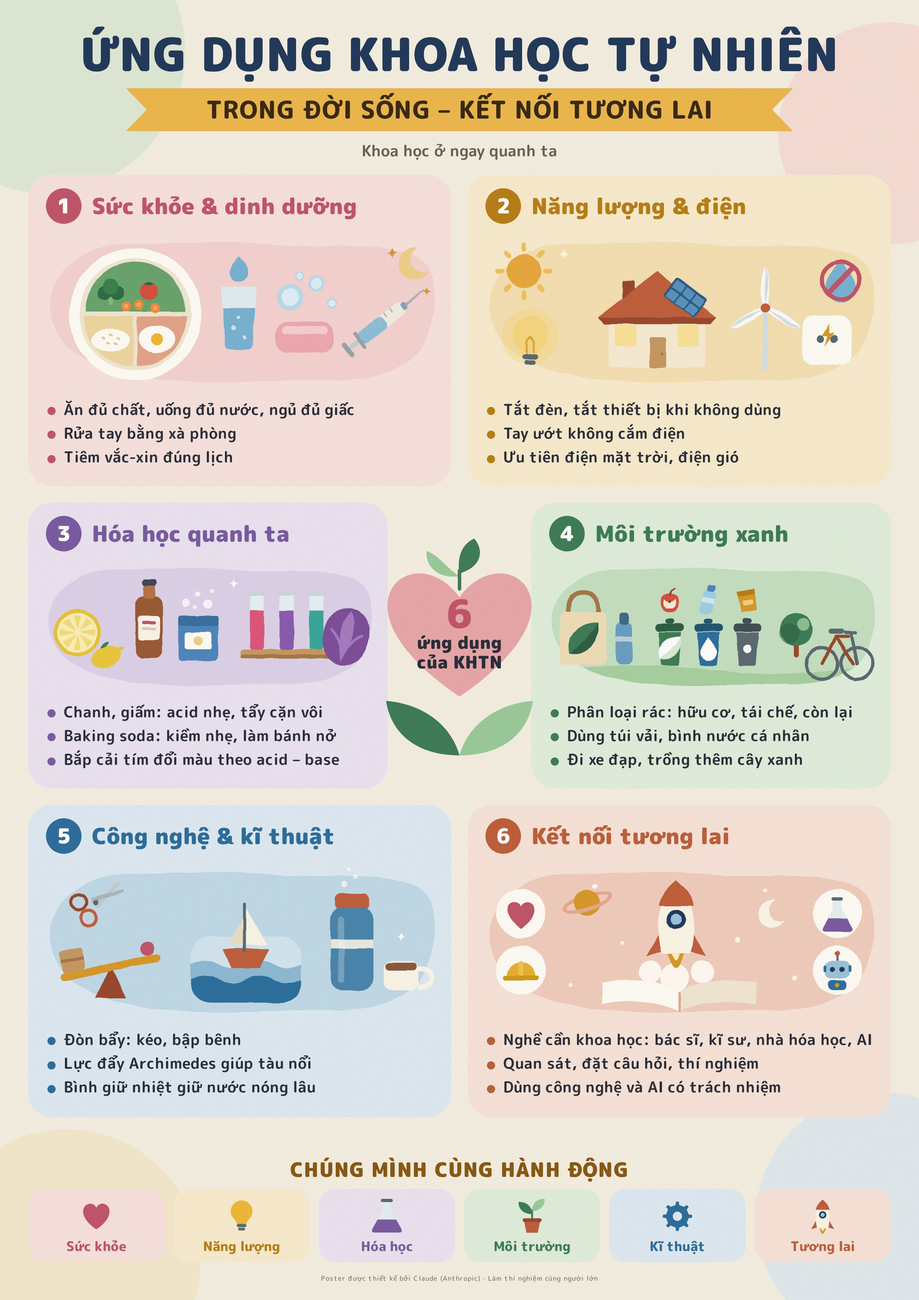
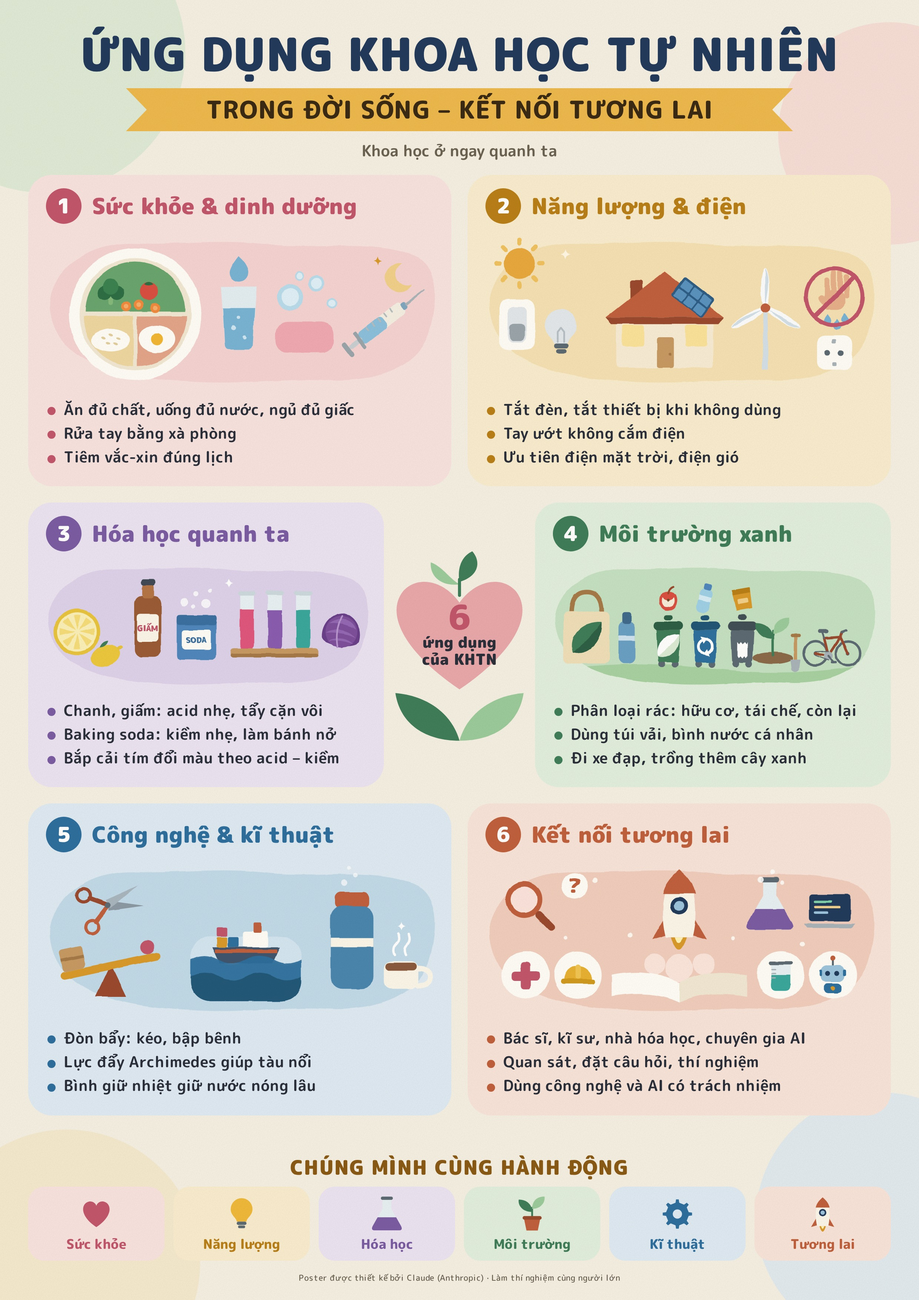
Poster tối giản: sửa theo đợt kiểm tra (bớt bóng, hình khớp ý, chừa khe cho trái tim)
- Bỏ vệt sáng trên bình giữ nhiệt và bánh xà phòng; bàn tay/kéo/tàu/xe đạp vẽ lại.
- Cảnh 2: công tắc và bóng đèn ở vị trí tắt, bàn tay ướt bị cấm cạnh ổ cắm.
- Cảnh 4: thùng rác có bánh xe, biểu tượng tái chế, cây non đang trồng, xe đạp có bàn đạp.
- Cảnh 6: kính lúp, dấu hỏi, thí nghiệm, laptop và bốn nghề; thuật ngữ acid – kiềm nhất quán.
- Xuất đúng khổ A4: 2480x3508 (300 dpi) và 3720x5262.

Claude-Session: https://claude.ai/code/session_01TrzHmDARenU8tDfD1GxZC2

diff --git a/poster-khtn8-toi-gian/art.js b/poster-khtn8-toi-gian/art.js
@@ -8,7 +8,8 @@ const M = {
   grn: '#3f7d58', grnD: '#2e6044', grnL: '#9ccb9b', grnXL: '#e2efdd',
   blu: '#2e6f9e', bluD: '#245676', bluL: '#9cc4dc', bluXL: '#dfeaf3',
   ter: '#c0603c', terD: '#9a4a2d', terL: '#e7ab90', terXL: '#f8e4da',
-  navy: '#233a5c', gray: '#5d6b73', grayL: '#a9b3b8', wood: '#c79a63', woodD: '#a67a46'
+  navy: '#233a5c', gray: '#5d6b73', grayL: '#a9b3b8', wood: '#c79a63', woodD: '#a67a46',
+  skin: '#e6b08a'
 };
 const rad = d => d * Math.PI / 180;
 const T = (x, y, s = 1, rot = 0, inner = '') => `<g transform="translate(${x} ${y}) rotate(${rot}) scale(${s})">${inner}</g>`;
@@ -16,6 +17,8 @@ const rect = (x, y, w, h, r, f, extra = '') => `<rect x="${x}" y="${y}" width="$
 const circ = (x, y, r, f, extra = '') => `<circle cx="${x}" cy="${y}" r="${r}" fill="${f}" ${extra}/>`;
 const ell = (x, y, rx, ry, f, rot = 0) => `<ellipse cx="${x}" cy="${y}" rx="${rx}" ry="${ry}" fill="${f}" transform="rotate(${rot} ${x} ${y})"/>`;
 const path = (d, f, extra = '') => `<path d="${d}" fill="${f}" ${extra}/>`;
+const bar = (d, c, w) => `<path d="${d}" fill="none" stroke="${c}" stroke-width="${w}" stroke-linecap="round" stroke-linejoin="round"/>`;
+const ring = (cx, cy, R, r, f) => `<path fill-rule="evenodd" fill="${f}" d="M${cx - R} ${cy}a${R} ${R} 0 1 0 ${2 * R} 0a${R} ${R} 0 1 0 ${-2 * R} 0ZM${cx - r} ${cy}a${r} ${r} 0 1 1 ${2 * r} 0a${r} ${r} 0 1 1 ${-2 * r} 0Z"/>`;
 
 function sector(cx, cy, r, a0, a1, fill, gap = 3) {
   const m = rad((a0 + a1) / 2), ox = cx + gap * Math.cos(m), oy = cy + gap * Math.sin(m);
@@ -30,10 +33,11 @@ const inBlob = inner => { const id = 'bl' + (++_g); return `<clipPath id="${id}"
 
 /* ---------- đồ vật dùng chung ---------- */
 const bulbG = (lit = true, glow = '#f6d77a') => `${lit ? circ(0, -6, 32, glow, 'opacity=".38"') : ''}
-  ${path('M-9 14C-9 7 -20 3 -20 -9A20 20 0 1 1 20 -9C20 3 9 7 9 14Z', lit ? '#f7d77f' : '#e6ecf2')}
+  ${path('M-9 14C-9 7 -20 3 -20 -9A20 20 0 1 1 20 -9C20 3 9 7 9 14Z', lit ? '#f7d77f' : '#e3e8eb')}
   ${rect(-9, 14, 18, 6, 3, M.gray)}${rect(-6.5, 21, 13, 5, 2.5, M.gray)}
-  ${path('M-4 12V-1L0 -6L4 -1V12', 'none', 'stroke="#d99a2b" stroke-width="2.2" stroke-linecap="round" stroke-linejoin="round" opacity=".8"')}`;
+  ${lit ? bar('M-4 12V-1L0 -6L4 -1V12', '#d99a2b', 2.2) : bar('M-4 12V-1L0 -6L4 -1V12', '#b7c0c6', 2.2)}`;
 const heartG = c => path('M0 24C-32 3 -28 -20 -13 -23C-6 -24 -1 -19 0 -15C1 -19 6 -24 13 -23C28 -20 32 3 0 24Z', c);
+const crossG = c => rect(-9, -26, 18, 52, 6, c) + rect(-26, -9, 52, 18, 6, c);
 const leafG = (a, b) => path('M-24 24C-32 -6 -6 -30 26 -28C28 6 4 32 -24 24Z', a) + path('M-24 24C-8 12 12 -6 26 -28C28 6 4 32 -24 24Z', b);
 const dropG = (c) => path('M0 -30C0 -30 -22 -4 -22 10A22 22 0 0 0 22 10C22 -4 0 -30 0 -30Z', c);
 const sparkG = c => path('M0 -11Q1.6 -1.6 11 0Q1.6 1.6 0 11Q-1.6 1.6 -11 0Q-1.6 -1.6 0 -11Z', c);
@@ -64,13 +68,71 @@ const robotG = () => `${rect(-1.8, -31, 3.6, 11, 0, M.gray)}${circ(0, -33, 4.6, 
   ${rect(-24.5, -12, 5, 12, 2.5, M.blu)}${rect(19.5, -12, 5, 12, 2.5, M.blu)}
   ${rect(-16, 14, 32, 19, 7, M.blu)}${circ(0, 23.5, 4, M.mus)}`;
 const hatG = () => `${path('M-26 8A26 26 0 0 1 26 8Z', '#e8b130')}${rect(-32, 6, 64, 9, 4.5, '#d09a1c')}${rect(-5, -20, 10, 26, 4, '#f1c552')}`;
-const treeG = () => `${rect(-3.5, 4, 7, 27, 3.5, M.terD)}${circ(0, -8, 23, M.grn)}${circ(-10, -2, 14, M.grnD, 'opacity=".55"')}${circ(10, -15, 9, M.grnL, 'opacity=".85"')}`;
+const moonG = c => path('M8 -25A26 26 0 1 0 25 13A20 20 0 0 1 8 -25Z', c);
 const saplingG = pot => `${rect(-1.8, -16, 3.6, 22, 1.8, M.grn)}
   ${path('M0 -6C-20 -6 -28 -20 -26 -30C-10 -30 0 -20 0 -6Z', M.grn)}${path('M0 -12C18 -12 26 -26 24 -36C8 -36 0 -26 0 -12Z', M.grnL)}
   ${path('M-16 6H16L11 30H-11Z', pot)}${rect(-18.5, 2, 37, 7, 3.5, M.terD)}`;
-const moonG = c => path('M8 -25A26 26 0 1 0 25 13A20 20 0 0 1 8 -25Z', c);
-const planetG = (c, ring) => `<g transform="rotate(-18)"><path fill-rule="evenodd" fill="${ring}" d="M-34 0a34 11 0 1 0 68 0a34 11 0 1 0 -68 0ZM-29 0a29 6 0 1 1 58 0a29 6 0 1 1 -58 0Z"/>${circ(0, 0, 17, c)}<path fill="${ring}" d="M-34 0A34 11 0 0 0 34 0L29 0A29 6 0 0 1 -29 0Z"/></g>`;
-const binG = (c, cD, glyph) => `${rect(-6, -33, 12, 7, 3.5, cD)}${path('M-15 -14H15L12 28Q12 31 9 31H-9Q-12 31 -12 28Z', c)}${rect(-19, -26, 38, 11, 5.5, cD)}${glyph}`;
+
+const beakerG = liq => `${path('M-18 -24H18V18Q18 28 8 28H-8Q-18 28 -18 18Z', '#e7f0f3')}${path('M-18 -2H18V18Q18 28 8 28H-8Q-18 28 -18 18Z', liq)}${rect(-22, -27, 44, 6, 3, M.gray)}${[-14, -6, 2].map(y => rect(-18, y, 9, 2.4, 1, '#a9b3b8')).join('')}`;
+/* cây non đang được trồng xuống đất, có xẻng */
+const plantG = () => `${ell(0, 24, 30, 9, '#8b6a4a')}${rect(-1.8, -18, 3.6, 40, 1.8, M.grn)}
+  ${path('M0 -4C-20 -4 -28 -18 -26 -28C-10 -28 0 -18 0 -4Z', M.grn)}${path('M0 -12C18 -12 26 -26 24 -36C8 -36 0 -26 0 -12Z', M.grnL)}
+  ${rect(31, -10, 5, 38, 2.5, M.wood)}${rect(26, -12, 15, 5, 2.5, M.woodD)}${path('M26 26H41L39 42Q33.5 48 28 42Z', M.grayL)}`;
+
+/* thùng rác có bánh xe: tách rõ với cốc nước */
+const binG = (c, cD, glyph) => `${circ(-9, 32, 4.6, M.gray)}${circ(9, 32, 4.6, M.gray)}${rect(-6, -35, 12, 7, 3.5, cD)}
+  ${path('M-16 -14H16L14 27Q14 30 11 30H-11Q-14 30 -14 27Z', c)}${rect(-20, -26, 40, 12, 6, cD)}${glyph}`;
+const recycleG = () => {
+  const r = 9.5, cy = 8, arrow = (a0, a1) => {
+    const P = a => [r * Math.cos(rad(a)), cy + r * Math.sin(rad(a))];
+    const [x0, y0] = P(a0), [x1, y1] = P(a1);
+    const tx = -Math.sin(rad(a1)), ty = Math.cos(rad(a1)), nx = Math.cos(rad(a1)), ny = Math.sin(rad(a1));
+    const tip = [x1 + tx * 7, y1 + ty * 7], b1 = [x1 + nx * 5.2 - tx, y1 + ny * 5.2 - ty], b2 = [x1 - nx * 5.2 - tx, y1 - ny * 5.2 - ty];
+    return `<path d="M${x0.toFixed(1)} ${y0.toFixed(1)}A${r} ${r} 0 0 1 ${x1.toFixed(1)} ${y1.toFixed(1)}" fill="none" stroke="#fff" stroke-width="3.6"/>` +
+      `<path d="M${tip[0].toFixed(1)} ${tip[1].toFixed(1)}L${b1[0].toFixed(1)} ${b1[1].toFixed(1)}L${b2[0].toFixed(1)} ${b2[1].toFixed(1)}Z" fill="#fff"/>`;
+  };
+  return arrow(-80, 70) + arrow(100, 250);
+};
+const chipBagG = () => path('M-7 -2L-4.5 1L-2 -2L0.5 1L3 -2L5.5 1L7 -2V17L4.5 20L2 17L-0.5 20L-3 17L-5.5 20L-7 17Z', '#fff', 'transform="translate(0 4)"');
+
+/* cái kéo: hai tay đòn bắt chéo ở chốt, tay cầm gắn liền lưỡi */
+const scissorsG = () => `
+  ${path('M58 17L2 9L6 -6Z', '#8c9aa4')}${bar('M4 0L-22 -19', M.terD, 7)}${ring(-30, -26, 13, 8, M.terD)}
+  ${path('M58 -17L2 -9L6 6Z', '#a9b6be')}${bar('M4 0L-22 19', M.ter, 7)}${ring(-30, 26, 13, 8, M.ter)}
+  ${circ(3, 0, 4.8, M.gray)}`;
+
+/* bàn tay ướt + giọt nước */
+const handG = () => `${rect(-16, -4, 32, 30, 12, M.skin)}
+  ${[0, 1, 2, 3].map(i => rect(-15 + i * 9.8, -28 - (i === 1 || i === 2 ? 7 : 0) + (i === 0 ? 5 : 0), 8, 36, 4, M.skin)).join('')}
+  ${T(-20, 8, 1, -36, rect(-4.5, -4, 9, 25, 4.5, M.skin))}
+  ${[[-10, 40], [4, 48], [16, 38]].map(([x, y]) => T(x, y, .26, 0, dropG('#79b3d4'))).join('')}`;
+const socketG = () => `${rect(-29, -29, 58, 58, 14, M.white)}${circ(-11, 0, 5, M.gray)}${circ(11, 0, 5, M.gray)}${rect(-3.5, -23, 7, 7, 2, M.grayL)}${rect(-3.5, 16, 7, 7, 2, M.grayL)}`;
+const switchG = () => `${rect(0, 0, 46, 66, 11, M.white)}${rect(11, 10, 24, 46, 7, '#e3e7ea')}${rect(13, 32, 20, 22, 6, '#9aa5ab')}`;
+
+/* bắp cải tím: cả búp tròn nhiều lớp lá */
+const cabbageG = () => `${path('M-34 14C-38 -10 -22 -32 0 -34C22 -32 38 -10 34 14C28 30 -28 30 -34 14Z', '#6b3f8a')}
+  ${circ(0, 0, 29, '#7e4f9c')}
+  ${path('M-24 -12C-8 -28 16 -28 26 -8C10 -16 -10 -16 -24 -12Z', '#9468b4')}
+  ${path('M-28 6C-14 -6 12 -6 28 8C14 2 -12 2 -28 6Z', '#9468b4')}
+  ${path('M-22 20C-8 10 12 10 24 20C10 16 -10 16 -22 20Z', '#9468b4')}
+  ${bar('M-3 -29C-9 -10 -9 10 -3 29', '#b896cf', 3)}`;
+
+const laptopG = () => `${rect(-34, -24, 68, 44, 5, M.navy)}${rect(-26, -14, 30, 4, 2, '#7fd1a8')}${rect(-26, -5, 44, 4, 2, M.musL)}${rect(-26, 4, 24, 4, 2, M.bluL)}
+  ${path('M-42 24H42L36 31H-36Z', M.grayL)}`;
+const magnifierG = () => `${circ(0, 0, 18, '#fbe4dc')}${ring(0, 0, 25, 18, M.ter)}<g transform="rotate(45)">${rect(24, -5, 34, 10, 5, M.terD)}</g>`;
+const planetG = (c, rg) => `<g transform="rotate(-18)"><path fill-rule="evenodd" fill="${rg}" d="M-34 0a34 11 0 1 0 68 0a34 11 0 1 0 -68 0ZM-29 0a29 6 0 1 1 58 0a29 6 0 1 1 -58 0Z"/>${circ(0, 0, 17, c)}<path fill="${rg}" d="M-34 0A34 11 0 0 0 34 0L29 0A29 6 0 0 1 -29 0Z"/></g>`;
+
+/* tàu hàng thép nổi trên mặt nước */
+const shipG = () => `${path('M-46 0H46L36 22H-36Z', '#3f566e')}${rect(-42, 3, 84, 5, 0, M.ter)}
+  ${rect(-4, -22, 34, 22, 3, M.white)}${rect(10, -34, 11, 14, 2, M.ter)}
+  ${rect(-40, -14, 15, 14, 2, M.mus)}${rect(-24, -14, 15, 14, 2, M.blu)}${rect(-40, -28, 15, 13, 2, M.rose)}`;
+
+/* xe đạp có bàn đạp, líp và xích */
+const bikeG = () => `${ring(-30, 0, 24, 19.5, M.gray)}${ring(30, 0, 24, 19.5, M.gray)}${circ(-30, 0, 3.4, M.gray)}${circ(30, 0, 3.4, M.gray)}
+  ${bar('M-30 0L-6 4L-14 -28L16 -30L-6 4M16 -30L30 0M16 -30L19 -39', M.terD, 4.6)}
+  ${bar('M-14 -28L-17 -37', M.gray, 3.4)}${rect(-26, -44, 20, 7, 3.5, M.gray)}${bar('M19 -39L27 -42', M.gray, 4)}
+  ${circ(-6, 4, 8.5, M.grayL)}${bar('M-6 4L3 15', M.gray, 3.6)}${rect(-1, 14, 11, 4.4, 2.2, M.gray)}
+  ${bar('M-30 -3L-6 -4M-30 3L-6 12', M.gray, 1.8)}`;
 
 /* ---------- 1 · Sức khỏe & dinh dưỡng ---------- */
 function scene1() {
@@ -89,7 +151,7 @@ function scene1() {
   ${circ(252, 124, 3.2, '#cfe6f2')}${circ(266, 136, 2.4, '#cfe6f2')}${circ(259, 111, 2, '#cfe6f2')}
   ${T(259, 46, .55, 0, dropG('#79b3d4'))}
   <!-- xà phòng + bọt -->
-  ${rect(306, 116, 76, 40, 16, '#f0a9b2')}${rect(314, 122, 60, 10, 5, '#f8cfd3')}
+  ${rect(306, 116, 76, 40, 16, '#f0a9b2')}
   ${[[326, 84, 17], [360, 66, 10], [380, 92, 7], [338, 56, 6]].map(([x, y, r]) => circ(x, y, r, '#b9dcec') + circ(x, y, r * .68, '#dff0f7')).join('')}
   <!-- mũi tiêm vắc-xin -->
   ${T(452, 112, 1, -38, `${rect(-44, -9, 70, 18, 5, '#f4efe3')}${rect(-44, -9, 40, 18, 5, '#8cc0dc')}
@@ -97,29 +159,29 @@ function scene1() {
     ${rect(-62, -3, 20, 6, 3, '#c9cfd2')}${rect(-68, -11, 6, 22, 3, '#9aa5ab')}${rect(-48, -13, 5, 26, 2, '#9aa5ab')}
     ${rect(24, -5, 7, 10, 2, '#7fa7c0')}${path('M30 -2L62 -0.8L62 0.8L30 2Z', '#aab4b9')}`)}
   <!-- mặt trăng: ngủ đủ giấc -->
-  ${T(486, 40, .8, 0, moonG(M.musL))}${T(458, 26, .6, 0, sparkG(M.mus))}${T(504, 76, .5, 0, sparkG(M.mus))}`;
+  ${T(466, 58, .72, 0, moonG(M.musL))}${T(440, 36, .5, 0, sparkG(M.mus))}`;
 }
 
 /* ---------- 2 · Năng lượng & điện ---------- */
 function scene2() {
-  const rays = [0, 45, 90, 135, 180, 225, 270, 315].map(a => `<rect x="-3" y="-37" width="6" height="12" rx="3" fill="#f0c25e" transform="rotate(${a})"/>`).join('');
+  const rays = [0, 45, 90, 135, 180, 225, 270, 315].map(a => `<rect x="-3" y="-35" width="6" height="11" rx="3" fill="#f0c25e" transform="rotate(${a})"/>`).join('');
   const blades = [0, 120, 240].map(a => `<g transform="rotate(${a})">${ell(0, -26, 5.5, 26, '#fbfcfd')}${path('M0 -52C5 -44 6 -30 0 -4Z', '#d3e0e8')}</g>`).join('');
   return `${blob(M.musL, .4)}
-  ${T(58, 50, 1, 0, rays + circ(0, 0, 22, '#e8a93c'))}
-  ${T(66, 142, 1.15, 0, bulbG(true))}
+  ${T(52, 40, .95, 0, rays + circ(0, 0, 21, '#e8a93c'))}
+  <!-- công tắc đang ở vị trí TẮT + bóng đèn tắt -->
+  ${T(26, 86, 1, 0, switchG())}${T(106, 130, 1.05, 0, bulbG(false))}
   <!-- ngôi nhà có tấm pin mặt trời -->
-  ${rect(186, 62, 16, 30, 2, M.terD)}
-  ${rect(168, 104, 126, 72, 4, '#f7ecd4')}
-  ${path('M154 110L231 50L308 110Z', M.ter)}${path('M154 110H308L300 119H162Z', M.terD)}
-  ${T(268, 84, 1, 37.6, `${rect(-25, -15, 50, 30, 3, '#2f5d85')}${[0, 1, 2].flatMap(i => [0, 1].map(j => rect(-22 + i * 15.5, -12 + j * 14, 13.5, 11.5, 1.5, '#5a93bf'))).join('')}`)}
-  ${rect(176, 120, 28, 28, 3, '#fbe39a')}${rect(258, 120, 28, 28, 3, '#fbe39a')}${rect(221, 136, 22, 40, 3, M.wood)}${circ(238, 158, 1.8, M.woodD)}
+  ${rect(196, 62, 16, 30, 2, M.terD)}
+  ${rect(178, 104, 126, 72, 4, '#f7ecd4')}
+  ${path('M164 110L241 50L318 110Z', M.ter)}${path('M164 110H318L310 119H172Z', M.terD)}
+  ${T(278, 84, 1, 37.6, `${rect(-25, -15, 50, 30, 3, '#2f5d85')}${[0, 1, 2].flatMap(i => [0, 1].map(j => rect(-22 + i * 15.5, -12 + j * 14, 13.5, 11.5, 1.5, '#5a93bf'))).join('')}`)}
+  ${rect(186, 120, 28, 28, 3, '#fbe39a')}${rect(268, 120, 28, 28, 3, '#fbe39a')}${rect(231, 136, 22, 40, 3, M.wood)}${circ(248, 158, 1.8, M.woodD)}
   <!-- tua-bin gió -->
   ${path('M368 178L376 178L374.4 104L369.6 104Z', '#d3e0e8')}${T(372, 98, 1, 0, blades + circ(0, 0, 6, M.ter))}
-  <!-- ổ cắm + giọt nước cấm -->
-  ${rect(420, 108, 64, 64, 14, M.white)}${circ(444, 138, 5, M.gray)}${circ(462, 138, 5, M.gray)}
-  ${path('M456 118L446 134H453L450 148L462 130H455Z', M.mus)}
-  ${T(470, 62, .9, 0, `${dropG('#79b3d4')}<path fill-rule="evenodd" fill="${M.rose}" d="M-30 0a30 30 0 1 0 60 0a30 30 0 1 0 -60 0ZM-24 0a24 24 0 1 1 48 0a24 24 0 1 1 -48 0Z"/>${rect(-26, -3.5, 52, 7, 3, M.rose, 'transform="rotate(-45)"')}`)}
-  ${T(110, 28, .6, 0, sparkG('#fff8e6'))}`;
+  <!-- tay ướt + ổ cắm: cấm -->
+  ${T(462, 78, .86, 0, `${handG()}<path fill-rule="evenodd" fill="${M.rose}" d="M-46 6a46 46 0 1 0 92 0a46 46 0 1 0 -92 0ZM-40 6a40 40 0 1 1 80 0a40 40 0 1 1 -80 0Z"/>${rect(-42, 2.5, 84, 7, 3, M.rose, 'transform="rotate(-45 0 6)"')}`)}
+  ${T(462, 156, .78, 0, socketG())}
+  ${T(112, 28, .6, 0, sparkG('#fff8e6'))}`;
 }
 
 /* ---------- 3 · Hóa học quanh ta ---------- */
@@ -130,77 +192,81 @@ function scene3() {
   <!-- chanh -->
   ${T(58, 112, 1.1, 0, circ(0, 0, 33, '#e8c43c') + circ(0, 0, 28, '#fbf0b8') + lemonSeg + circ(0, 0, 3.4, '#fbf0b8'))}
   ${T(102, 150, .9, -20, ell(0, 0, 26, 18, '#ecc83e') + path('M24 -6Q32 -10 34 -4Q30 0 24 -2Z', '#e8c43c') + path('M-4 -17Q4 -26 14 -23Q8 -14 -4 -17Z', M.grn))}
-  <!-- chai giấm -->
-  ${rect(148, 56, 42, 96, 12, '#9a5b34')}${rect(160, 38, 18, 22, 4, '#b57445')}${rect(158, 30, 22, 10, 4, '#3f4a55')}${rect(152, 86, 34, 38, 5, M.cream)}${rect(158, 94, 22, 5, 2.5, M.rose)}${rect(158, 104, 22, 4, 2, '#d8cdb4')}
+  <!-- chai giấm có nhãn -->
+  ${rect(148, 56, 42, 96, 12, '#9a5b34')}${rect(160, 38, 18, 22, 4, '#b57445')}${rect(158, 30, 22, 10, 4, '#3f4a55')}${rect(152, 84, 34, 44, 5, M.cream)}
+  <text x="169" y="111" text-anchor="middle" font-size="12.5" font-weight="900" fill="${M.rose}">GIẤM</text>
   <!-- hộp baking soda + bọt khí CO2 -->
-  ${rect(214, 86, 62, 70, 6, '#4f87bd')}${rect(214, 86, 62, 16, 4, '#3b6fa0')}${rect(224, 112, 42, 26, 4, M.white)}${circ(245, 125, 7, '#f1d08a')}
+  ${rect(214, 86, 62, 70, 6, '#4f87bd')}${rect(214, 86, 62, 16, 4, '#3b6fa0')}${rect(222, 110, 46, 30, 4, M.white)}
+  <text x="245" y="130" text-anchor="middle" font-size="12" font-weight="900" fill="#3b6fa0">SODA</text>
   ${[[226, 66, 6], [244, 52, 4], [260, 68, 7], [240, 72, 3], [266, 48, 3]].map(([x, y, r]) => circ(x, y, r, '#fff', 'opacity=".8"')).join('')}
   <!-- giá ống nghiệm: bắp cải tím đổi màu -->
-  ${tube(336, '#e0577d', 78)}${tube(382, '#8a5cb0', 78)}${tube(428, '#3aa79c', 78)}
-  ${rect(310, 138, 144, 14, 5, M.wood)}${rect(310, 146, 144, 6, 3, M.woodD)}
-  <!-- lá bắp cải tím -->
-  ${T(474, 118, 1, 12, path('M0 -44C28 -44 40 -16 34 14C30 36 10 46 0 46C-10 46 -30 36 -34 14C-40 -16 -28 -44 0 -44Z', '#7e4f9c') + path('M0 -40C-12 -26 -14 -2 0 40C14 -2 12 -26 0 -40Z', '#a77cc2') + path('M-24 -6C-14 0 -8 10 -3 22M24 -6C14 0 8 10 3 22', 'none', 'stroke="#a77cc2" stroke-width="4" stroke-linecap="round"'))}
-  ${T(300, 36, .6, 0, sparkG('#fff'))}`;
+  ${tube(324, '#e0577d', 78)}${tube(368, '#8a5cb0', 78)}${tube(412, '#3aa79c', 78)}
+  ${rect(298, 138, 138, 14, 5, M.wood)}${rect(298, 146, 138, 6, 3, M.woodD)}
+  <!-- búp bắp cải tím -->
+  ${T(472, 112, .86, 8, cabbageG())}
+  ${T(296, 36, .6, 0, sparkG('#fff'))}`;
 }
 
 /* ---------- 4 · Môi trường xanh ---------- */
 function scene4() {
-  const wheel = x => `<path fill-rule="evenodd" fill="${M.gray}" d="M${x - 27} 160a27 27 0 1 0 54 0a27 27 0 1 0 -54 0ZM${x - 22} 160a22 22 0 1 1 44 0a22 22 0 1 1 -44 0Z"/>`;
   return `${blob(M.grnL, .4)}
   ${inBlob(path('M0 174Q130 154 260 170T520 160V210H0Z', '#a8d1a1'))}
   <!-- túi vải + bình nước -->
-  ${path('M38 84Q38 50 62 50Q86 50 86 84', 'none', `stroke="${M.woodD}" stroke-width="7" stroke-linecap="round"`)}
+  ${bar('M38 84Q38 50 62 50Q86 50 86 84', M.woodD, 7)}
   ${rect(26, 80, 72, 82, 8, '#efdfb8')}${T(62, 122, .9, 0, leafG(M.grn, M.grnD))}
-  ${rect(112, 96, 26, 66, 10, '#6aa0c4')}${rect(118, 82, 14, 18, 4, '#3f6a8c')}${rect(112, 118, 26, 8, 0, M.white, 'opacity=".55"')}
-  <!-- 3 thùng rác + rác tương ứng -->
-  ${T(196, 128, 1.15, 0, binG(M.grn, M.grnD, T(0, 8, .58, 0, leafG('#fff', '#dcebd5'))))}
-  ${T(256, 128, 1.15, 0, binG(M.blu, M.bluD, T(0, 8, .5, 0, dropG('#fff'))))}
-  ${T(316, 128, 1.15, 0, binG(M.gray, '#434f56', circ(0, 8, 5.5, '#fff')))}
-  ${T(196, 62, 1, 0, path('M-12 -6C-18 6 -10 20 0 18C10 20 18 6 12 -6C6 -12 -6 -12 -12 -6Z', '#d9503f') + path('M-9 -2C-12 6 -8 14 0 12C8 14 12 6 9 -2C4 4 -4 4 -9 -2Z', '#f6ecd8') + circ(0, 2, 2, '#6b4a2a') + path('M0 -8Q2 -16 8 -18', 'none', `stroke="${M.terD}" stroke-width="3" stroke-linecap="round"`))}
-  ${T(256, 60, 1, 14, rect(-10, -14, 20, 38, 8, '#9fd0e6') + rect(-6, -22, 12, 10, 3, '#4f87bd') + rect(-10, -2, 20, 8, 0, '#fff', 'opacity=".55"'))}
-  ${T(316, 62, 1, -10, path('M-14 -16L14 -16L12 18L-12 18Z', M.mus) + path('M-14 -16L14 -16L13 -8L-13 -8Z', M.musD) + rect(-8, 0, 16, 8, 2, M.musL))}
-  <!-- cây + xe đạp -->
-  ${T(392, 116, 1.1, 0, treeG())}
-  ${wheel(432)}${wheel(486)}
-  ${path('M432 160L454 118L480 160M454 118H472', 'none', `stroke="${M.terD}" stroke-width="5" stroke-linecap="round" stroke-linejoin="round"`)}
-  ${path('M486 160L476 112M468 112H484', 'none', `stroke="${M.gray}" stroke-width="5" stroke-linecap="round"`)}${rect(442, 106, 24, 8, 4, M.gray)}`;
+  ${rect(112, 96, 26, 66, 10, '#6aa0c4')}${rect(118, 82, 14, 18, 4, '#3f6a8c')}${rect(112, 118, 26, 8, 0, '#cfe3ef')}
+  <!-- 3 thùng rác có bánh xe + rác tương ứng -->
+  ${T(190, 126, 1.15, 0, binG(M.grn, M.grnD, T(0, 8, .58, 0, leafG('#fff', '#dcebd5'))))}
+  ${T(248, 126, 1.15, 0, binG(M.blu, M.bluD, recycleG()))}
+  ${T(306, 126, 1.15, 0, binG(M.gray, '#434f56', chipBagG()))}
+  ${T(190, 60, 1, 0, path('M-12 -6C-18 6 -10 20 0 18C10 20 18 6 12 -6C6 -12 -6 -12 -12 -6Z', '#d9503f') + path('M-9 -2C-12 6 -8 14 0 12C8 14 12 6 9 -2C4 4 -4 4 -9 -2Z', '#f6ecd8') + circ(0, 2, 2, '#6b4a2a') + bar('M0 -8Q2 -16 8 -18', M.terD, 3))}
+  ${T(248, 58, 1, 14, rect(-10, -14, 20, 38, 8, '#9fd0e6') + rect(-6, -22, 12, 10, 3, '#4f87bd') + rect(-10, -2, 20, 8, 0, '#d7ecf5'))}
+  ${T(306, 60, 1, -10, path('M-14 -16L14 -16L12 18L-12 18Z', M.mus) + path('M-14 -16L14 -16L13 -8L-13 -8Z', M.musD) + rect(-8, 0, 16, 8, 2, M.musL))}
+  <!-- trồng thêm cây + xe đạp -->
+  ${T(354, 128, 1.05, 0, plantG())}
+  ${T(446, 146, .85, 0, bikeG())}`;
 }
 
 /* ---------- 5 · Công nghệ & kĩ thuật ---------- */
 function scene5() {
-  const waves = (y, c) => path(`M196 ${y}Q214 ${y - 10} 232 ${y}T268 ${y}T304 ${y}T340 ${y}V200H196Z`, c);
+  const waves = (y, c, o = 1) => path(`M196 ${y}Q214 ${y - 10} 232 ${y}T268 ${y}T304 ${y}T340 ${y}V200H196Z`, c, `opacity="${o}"`);
   const pondId = 'pd' + (++_g);
   return `${blob(M.bluL, .42)}
   <!-- cái kéo (đòn bẩy) -->
-  ${T(72, 52, 1, -32, `${path('M-4 2L40 -8L40 -4L-2 8Z', '#c4ccd1')}${path('M-4 -2L40 8L40 4L-2 -8Z', '#aeb8be')}<path fill-rule="evenodd" fill="${M.ter}" d="M-30 12a12 12 0 1 0 24 0a12 12 0 1 0 -24 0ZM-26 12a8 8 0 1 1 16 0a8 8 0 1 1 -16 0Z"/><path fill-rule="evenodd" fill="${M.terD}" d="M-30 -12a12 12 0 1 0 24 0a12 12 0 1 0 -24 0ZM-26 -12a8 8 0 1 1 16 0a8 8 0 1 1 -16 0Z"/>${circ(0, 0, 3.4, M.gray)}`)}
+  ${T(86, 58, .82, -16, scissorsG())}
   <!-- bập bênh -->
   ${path('M72 176H112L92 134Z', M.terD)}
   ${T(92, 136, 1, -12, rect(-66, -5, 132, 10, 5, M.mus) + rect(-62, -34, 30, 29, 4, M.wood) + rect(-62, -22, 30, 4, 0, M.woodD) + circ(52, -14, 9, M.rose))}
-  <!-- ao nước có thuyền nổi (lực đẩy Archimedes) -->
-  <clipPath id="${pondId}"><rect x="196" y="96" width="144" height="86" rx="26"/></clipPath>
-  <g clip-path="url(#${pondId})">${rect(196, 96, 144, 86, 0, '#d4e6f1')}${waves(132, '#8fbbd6')}${waves(152, M.blu)}</g>
-  ${T(268, 112, 1.25, 0, path('M-24 0H24L15 20H-15Z', M.ter) + path('M-2 -4V-46L22 -4Z', M.cream) + path('M-2 -4V-34L-18 -4Z', '#e9dfc8') + rect(-3, -48, 3, 52, 1, M.gray))}
-  ${waves(144, 'none')}
-  <!-- bình giữ nhiệt + cốc -->
-  ${rect(384, 40, 44, 22, 8, M.ter)}${rect(378, 58, 56, 108, 16, '#4b86ae')}${rect(378, 100, 56, 12, 0, M.cream, 'opacity=".9"')}${rect(388, 70, 8, 86, 4, '#fff', 'opacity=".25"')}
+  <!-- tàu thép nổi trên mặt nước (lực đẩy Archimedes) -->
+  <clipPath id="${pondId}"><rect x="196" y="98" width="144" height="84" rx="26"/></clipPath>
+  <g clip-path="url(#${pondId})">${rect(196, 98, 144, 84, 0, '#d4e6f1')}${waves(130, '#8fbbd6')}</g>
+  ${T(268, 112, .95, 0, shipG())}
+  <g clip-path="url(#${pondId})">${waves(128, M.blu, .93)}${waves(150, M.bluD, .95)}</g>
+  <!-- bình giữ nhiệt + cốc nóng -->
+  ${rect(384, 40, 44, 22, 8, M.ter)}${rect(378, 58, 56, 108, 16, '#4b86ae')}${rect(378, 100, 56, 12, 0, M.cream)}
   ${circ(396, 28, 4, '#fff', 'opacity=".7"')}${circ(410, 18, 3, '#fff', 'opacity=".7"')}${circ(402, 8, 2.4, '#fff', 'opacity=".7"')}
-  ${rect(448, 128, 44, 38, 10, M.cream)}${path('M492 138Q510 138 510 150Q510 162 492 162', 'none', `stroke="${M.cream}" stroke-width="7"`)}${rect(450, 130, 40, 10, 5, '#8a5a3c')}
-  ${T(470, 96, .5, 0, sparkG('#fff'))}`;
+  ${rect(448, 130, 44, 36, 10, M.cream)}${bar('M492 140Q508 140 508 151Q508 162 492 162', M.cream, 7)}${rect(450, 132, 40, 10, 5, '#8a5a3c')}
+  ${bar('M462 122Q458 114 464 108Q470 102 466 94M476 122Q472 114 478 108Q484 102 480 94', '#ffffff', 3)}
+  ${T(470, 84, .5, 0, sparkG('#fff'))}`;
 }
 
 /* ---------- 6 · Kết nối tương lai ---------- */
 function scene6() {
-  const badge = (x, y, ic) => circ(x, y, 32, M.white) + T(x, y + 2, .72, 0, ic);
+  const badge = (x, y, ic) => circ(x, y, 31, M.white) + T(x, y + 1, .7, 0, ic);
   return `${blob(M.terL, .4)}
-  ${[[150, 30], [372, 36], [336, 100], [186, 104], [410, 150], [118, 160]].map(([x, y], i) => circ(x, y, i % 2 ? 2.6 : 3.4, M.white, 'opacity=".9"')).join('')}
-  ${T(140, 52, 1, 0, planetG(M.mus, M.terL))}${T(380, 66, .7, 0, moonG(M.cream))}
-  <!-- cuốn sách mở, tên lửa bay ra -->
-  ${circ(222, 142, 15, M.white, 'opacity=".95"')}${circ(254, 150, 19, M.white, 'opacity=".95"')}${circ(290, 142, 15, M.white, 'opacity=".95"')}
-  ${T(256, 78, 1.55, 0, rocketG())}
-  ${path('M260 168C232 152 196 150 160 156L160 184C198 178 234 180 260 194Z', '#fffdf7')}${path('M260 168C288 152 324 150 360 156L360 184C322 178 286 180 260 194Z', '#f1e8d3')}
-  ${path('M260 168V194', 'none', `stroke="${M.terL}" stroke-width="3"`)}
-  <!-- bốn nghề -->
-  ${badge(54, 66, heartG(M.rose))}${badge(54, 140, hatG())}${badge(466, 66, flaskG(M.plum))}${badge(466, 140, robotG())}`;
+  ${[[150, 24], [372, 30], [196, 96], [330, 100], [420, 108], [112, 100]].map(([x, y], i) => circ(x, y, i % 2 ? 2.4 : 3.2, M.white, 'opacity=".9"')).join('')}
+  <!-- quan sát + đặt câu hỏi -->
+  ${T(58, 50, .95, 0, magnifierG())}
+  ${circ(124, 32, 17, M.white)}<text x="124" y="41" text-anchor="middle" font-size="26" font-weight="900" fill="${M.ter}">?</text>
+  <!-- thí nghiệm + công nghệ -->
+  ${T(378, 56, 1.1, 0, flaskG(M.plum))}${[[366, 24, 4], [382, 14, 3], [394, 28, 2.6]].map(([x, y, r]) => circ(x, y, r, '#fff', 'opacity=".85"')).join('')}
+  ${T(456, 62, .8, 0, laptopG())}
+  <!-- tên lửa bay ra từ trang sách -->
+  ${T(260, 62, 1.42, 0, rocketG())}
+  ${circ(228, 134, 14, '#fbe6dc')}${circ(260, 139, 18, '#fbe6dc')}${circ(292, 134, 14, '#fbe6dc')}
+  ${path('M260 158C234 144 202 142 172 148L172 176C204 170 236 172 260 184Z', '#fffdf7')}${path('M260 158C286 144 318 142 348 148L348 176C316 170 284 172 260 184Z', '#f1e8d3')}
+  <!-- bốn nghề: bác sĩ, kĩ sư, nhà hóa học, chuyên gia AI -->
+  ${badge(60, 148, crossG(M.rose))}${badge(128, 148, hatG())}${badge(392, 148, beakerG('#3aa79c'))}${badge(460, 148, robotG())}`;
 }
 
 /* ---------- trái tim giữa trang ---------- */

diff --git a/poster-khtn8-toi-gian/poster.html b/poster-khtn8-toi-gian/poster.html
@@ -28,9 +28,9 @@ h1{font:900 62px/1.05 'M PLUS Rounded 1c',sans-serif;color:var(--navy);letter-sp
 /* ---------- thẻ nội dung ---------- */
 .row{display:grid;gap:22px;margin-top:22px}
 .row.two{grid-template-columns:1fr 1fr}
-.row.mid{grid-template-columns:1fr 150px 1fr}
+.row.mid{grid-template-columns:1fr 160px 1fr}
 .heartwrap{position:relative;z-index:5;display:flex;align-items:center;justify-content:center}
-.heartwrap svg{position:absolute;width:236px;left:50%;top:50%;transform:translate(-50%,-50%)}
+.heartwrap svg{position:absolute;width:206px;left:50%;top:50%;transform:translate(-50%,-50%)}
 .card{background:var(--bg);border-radius:32px;padding:18px 24px 20px;display:flex;flex-direction:column}
 .hd{display:flex;align-items:center;gap:14px}
 .num{flex:none;width:48px;height:48px;border-radius:50%;background:var(--c);color:#fff;font:900 28px/48px 'M PLUS Rounded 1c',sans-serif;text-align:center}
@@ -48,7 +48,7 @@ li::before{content:"";position:absolute;left:2px;top:.46em;width:11px;height:11p
 .pl{background:var(--bg);border-radius:22px;padding:12px 4px 12px;text-align:center}
 .pl svg{display:block;width:50px;height:50px;margin:0 auto 6px}
 .pl b{display:block;font:800 18px/1.1 'M PLUS Rounded 1c',sans-serif;color:var(--c)}
-.credit{text-align:center;margin:16px 0 22px;font:500 9px/1.4 'M PLUS Rounded 1c',sans-serif;color:#8a8372;letter-spacing:.06em}
+.credit{text-align:center;margin:16px 0 22px;font:500 11px/1.4 'M PLUS Rounded 1c',sans-serif;color:#6b6252;letter-spacing:.04em}
 </style>
 </head>
 <body>
@@ -93,13 +93,13 @@ const cards = [
   { n: 2, c: M.musD, bg: M.musXL, title: 'Năng lượng & điện', scene: scene2,
     items: ['Tắt đèn, tắt thiết bị khi không dùng', 'Tay ướt không cắm điện', 'Ưu tiên điện mặt trời, điện gió'] },
   { n: 3, c: M.plum, bg: M.plumXL, title: 'Hóa học quanh ta', scene: scene3, mid: true,
-    items: ['Chanh, giấm: acid nhẹ, tẩy cặn vôi', 'Baking soda: kiềm nhẹ, làm bánh nở', 'Bắp cải tím đổi màu theo acid – base'] },
+    items: ['Chanh, giấm: acid nhẹ, tẩy cặn vôi', 'Baking soda: kiềm nhẹ, làm bánh nở', 'Bắp cải tím đổi màu theo acid – kiềm'] },
   { n: 4, c: M.grn, bg: M.grnXL, title: 'Môi trường xanh', scene: scene4, mid: true,
     items: ['Phân loại rác: hữu cơ, tái chế, còn lại', 'Dùng túi vải, bình nước cá nhân', 'Đi xe đạp, trồng thêm cây xanh'] },
   { n: 5, c: M.blu, bg: M.bluXL, title: 'Công nghệ & kĩ thuật', scene: scene5,
     items: ['Đòn bẩy: kéo, bập bênh', 'Lực đẩy Archimedes giúp tàu nổi', 'Bình giữ nhiệt giữ nước nóng lâu'] },
   { n: 6, c: M.ter, bg: M.terXL, title: 'Kết nối tương lai', scene: scene6,
-    items: ['Nghề cần khoa học: bác sĩ, kĩ sư, nhà hóa học, AI', 'Quan sát, đặt câu hỏi, thí nghiệm', 'Dùng công nghệ và AI có trách nhiệm'] }
+    items: ['Bác sĩ, kĩ sư, nhà hóa học, chuyên gia AI', 'Quan sát, đặt câu hỏi, thí nghiệm', 'Dùng công nghệ và AI có trách nhiệm'] }
 ];
 const cardHTML = k => `
 <article class="card" style="--c:${k.c};--bg:${k.bg}">
